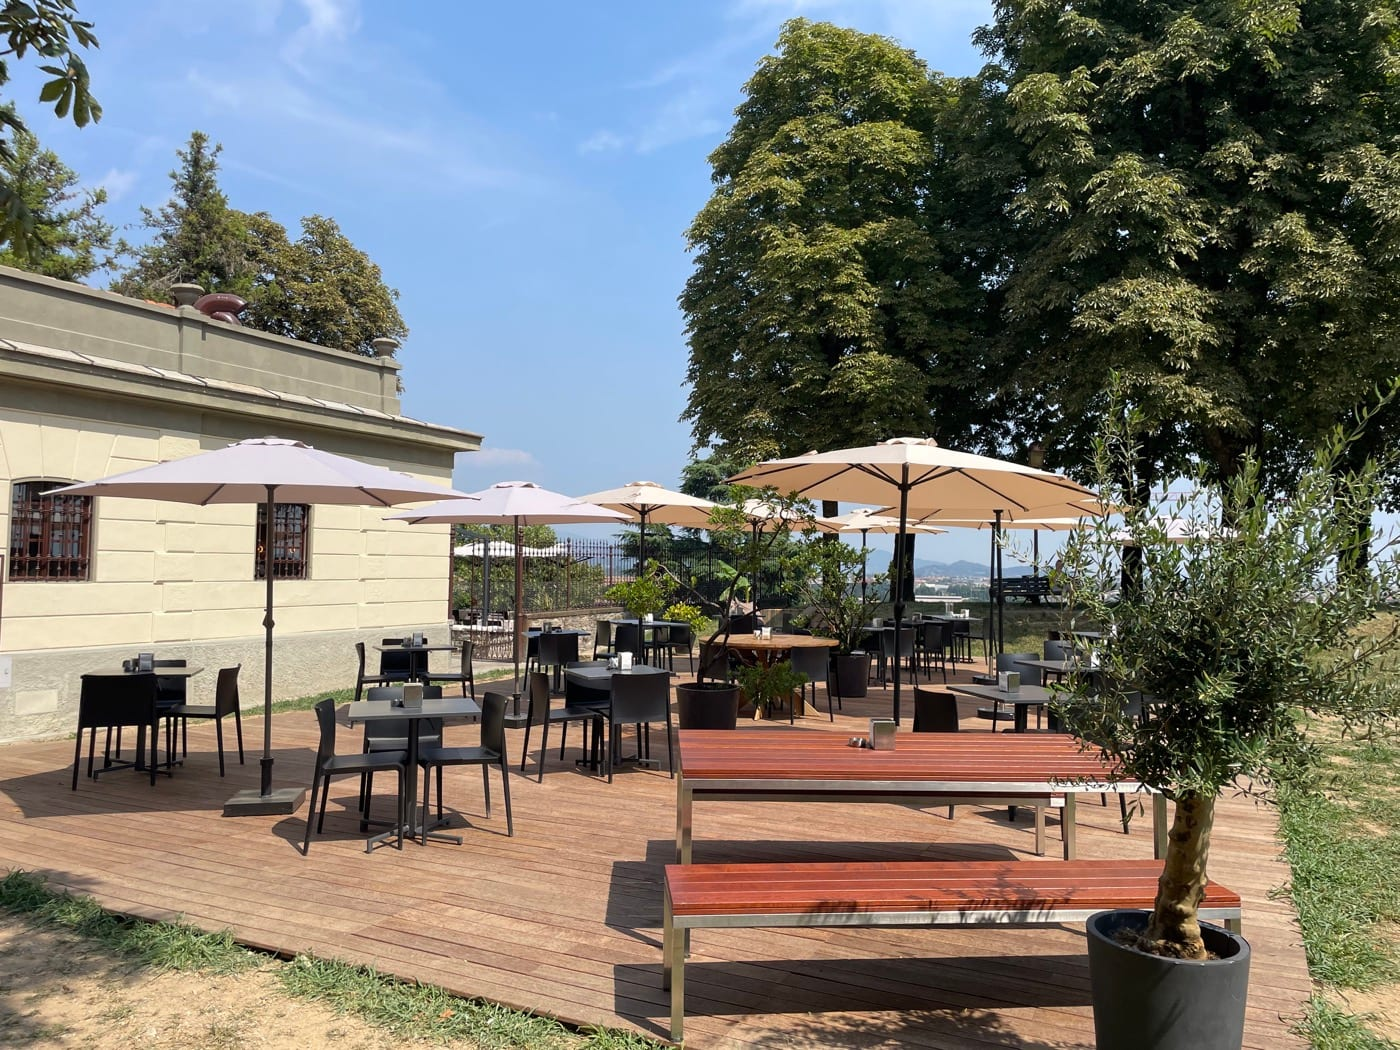
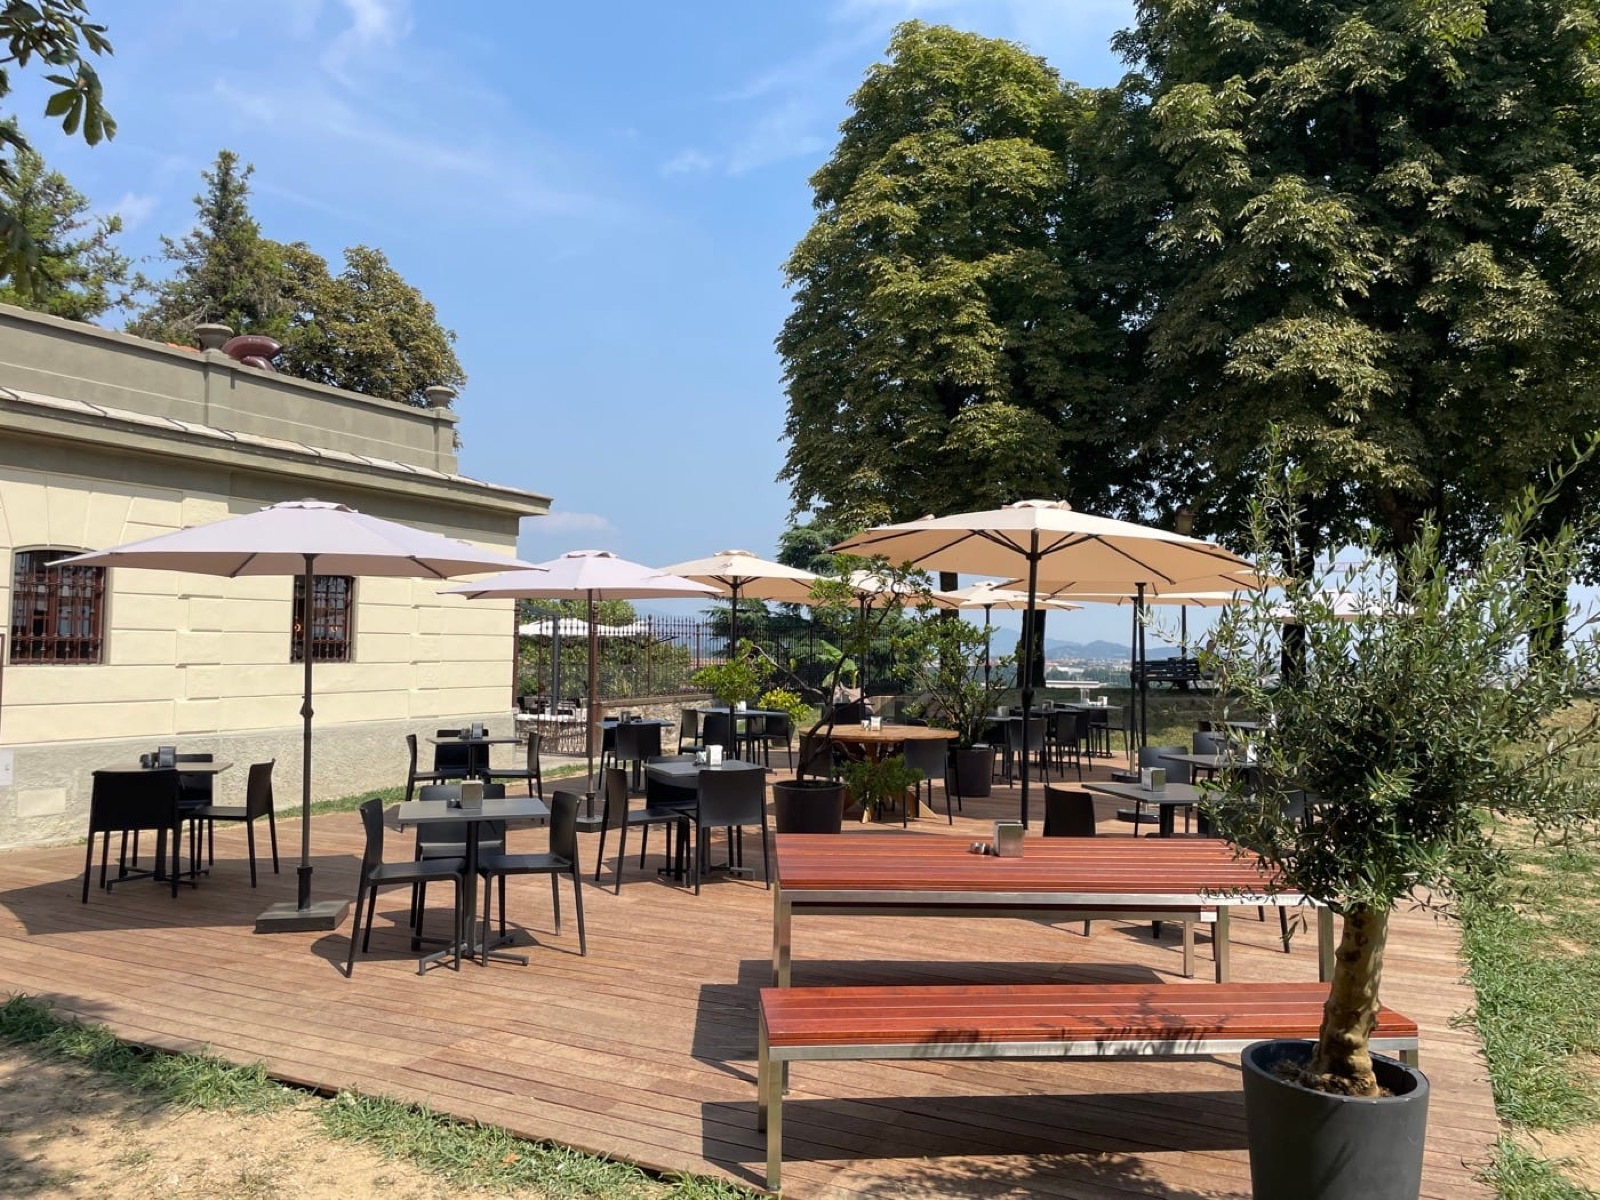
Keep converted group bookings in agenda

diff --git a/server.js b/server.js
@@ -225,6 +225,7 @@ function publicBookingRecord(item) {
   return {
     ...item,
     requestType: item.requestType || "standard",
+    occupiesSeats: bookingOccupiesSeats(item),
     specialType: item.specialType || "",
     specialStatus: item.specialStatus || "",
     specialTimeWindow: item.specialTimeWindow || "",
@@ -244,6 +245,7 @@ function publicSpecialRequest(item) {
     people: item.people,
     room: item.room || "",
     status: item.status,
+    occupiesSeats: bookingOccupiesSeats(item),
     notes: item.notes || "",
     customerNotes: item.customerNotes || "",
     specialType: item.specialType || "",
@@ -1497,7 +1499,7 @@ function zoneOccupancy(bookings, booking) {
   const period = mealPeriod(booking.time);
   const targetRoom = roomKey(booking.room);
   return bookings
-    .filter((item) => (item.requestType || "standard") !== "special")
+    .filter(bookingOccupiesSeats)
     .filter((item) => item.date === booking.date)
     .filter((item) => item.status !== "annullata")
     .filter((item) => roomKey(item.room) === targetRoom)
@@ -1507,11 +1509,19 @@ function zoneOccupancy(bookings, booking) {
 
 function publicSlotBookingCount(bookings, booking) {
   return bookings
-    .filter((item) => (item.requestType || "standard") !== "special")
+    .filter(bookingOccupiesSeats)
     .filter((item) => item.date === booking.date)
     .filter((item) => item.status !== "annullata")
     .filter((item) => item.time === booking.time)
     .length;
+}
+
+function bookingOccupiesSeats(booking) {
+  if ((booking.requestType || "standard") !== "special") return true;
+  if (booking.occupiesSeats === true) return true;
+
+  // Mantiene occupate anche le prenotazioni convertite prima dell'introduzione di questo flag.
+  return /convertita da prenotazione normale a richiesta gruppo\/evento/i.test(String(booking.internalNotes || ""));
 }
 
 function specialTimeWindowFromBooking(booking) {
@@ -3251,6 +3261,9 @@ async function handleApi(req, res) {
         room: item.room || "",
         tableNumber: item.tableNumber || "",
         status: item.status,
+        requestType: item.requestType || "standard",
+        specialType: item.specialType || "",
+        occupiesSeats: bookingOccupiesSeats(item),
         voucherCode: item.voucherCode || "",
         notes: item.notes || "",
         referredByEmployeeName: item.referredByEmployeeName || ""
@@ -3746,7 +3759,8 @@ async function handleApi(req, res) {
     const visible = bookings
       .filter((item) => !from || item.date >= from)
       .filter((item) => !to || item.date <= to)
-      .sort((a, b) => `${a.date} ${a.time}`.localeCompare(`${b.date} ${b.time}`));
+      .sort((a, b) => `${a.date} ${a.time}`.localeCompare(`${b.date} ${b.time}`))
+      .map(publicBookingRecord);
     sendJson(res, 200, { bookings: visible, zoneSettings });
     return;
   }
@@ -3867,12 +3881,13 @@ async function handleApi(req, res) {
     const converted = {
       ...previous,
       requestType: "special",
+      occupiesSeats: true,
       specialType: "gruppo",
       specialStatus: "nuova",
       specialTimeWindow: specialTimeWindowFromBooking(previous),
       assignedTo: previous.assignedTo || session.employeeName,
       internalNotes: appendBookingNote({ notes: previous.internalNotes || "" }, `Convertita da prenotazione normale a richiesta gruppo/evento da ${session.employeeName}.`),
-      status: "da verificare",
+      status: previous.status,
       updatedAt: now,
       updatedBy: session.employeeName
     };

diff --git a/public/app.js b/public/app.js
@@ -302,7 +302,7 @@ function renderRoomStats() {
   };
 
   for (const booking of bookings) {
-    if ((booking.requestType || "standard") === "special") continue;
+    if (!booking.occupiesSeats) continue;
     if (booking.status === "annullata") continue;
     const room = roomStatKey(booking.room);
     if (!stats[room]) continue;
@@ -383,7 +383,7 @@ function renderLimitWarning(room, values) {
 function renderBookings() {
   const term = searchInput.value.trim();
   const sourceBookings = (term ? mergeBookings(bookings, searchBookings) : bookings)
-    .filter((booking) => (booking.requestType || "standard") !== "special");
+    .filter((booking) => booking.occupiesSeats);
   const filtered = sourceBookings.filter((booking) => matchesSearch(booking, term) && matchesRoomFilter(booking) && matchesStatusFilter(booking));
   renderedBookings = filtered;
   const filterApiDate = toApiDate(filterDate.value);
@@ -405,6 +405,7 @@ function renderBookings() {
       <div class="booking-main">
         ${booking.date !== filterApiDate ? `<p class="other-date-alert">Attenzione: prenotazione del ${formatDate(booking.date)}</p>` : ""}
         <h3>${escapeHtml(booking.guestName)} · ${Number(booking.people)} persone</h3>
+        ${(booking.requestType || "standard") === "special" ? `<p class="booking-referral">Gruppo/evento · accordi in gestione</p>` : ""}
         <p class="booking-details">${formatDate(booking.date)} · ${seatLine(booking)} · ${contactLine(booking)}</p>
         ${referralLine(booking) ? `<p class="booking-referral">${referralLine(booking)}</p>` : ""}
         ${booking.voucherCode ? `<p class="booking-voucher"><strong>Voucher</strong> ${escapeHtml(booking.voucherCode)}</p>` : ""}
@@ -417,7 +418,7 @@ function renderBookings() {
         <button class="arrived" type="button" data-action="arrived" data-id="${booking.id}">${booking.status === "arrivati" ? "ANNULLA ARRIVO" : "ARRIVATI"}</button>
         ${["arrivati", "completata"].includes(booking.status) && booking.email && booking.feedbackConsentAt && !booking.feedbackRequestedAt ? `<button class="ghost" type="button" data-action="feedback" data-id="${booking.id}">Invia feedback</button>` : ""}
         ${booking.email ? `<button class="ghost" type="button" data-action="message" data-id="${booking.id}">Rispondi</button>` : ""}
-        <button class="ghost" type="button" data-action="convert-special" data-id="${booking.id}">Gruppo/evento</button>
+        ${(booking.requestType || "standard") !== "special" ? `<button class="ghost" type="button" data-action="convert-special" data-id="${booking.id}">Gruppo/evento</button>` : ""}
         <button class="ghost" type="button" data-action="edit" data-id="${booking.id}">Modifica</button>
         <button class="delete" type="button" data-action="delete" data-id="${booking.id}">Elimina</button>
       </div>
@@ -866,7 +867,7 @@ async function openWeeklyExport() {
 
   const payload = await api(`/api/bookings?from=${from}&to=${to}`);
   weeklyExportBookings = payload.bookings
-    .filter((booking) => (booking.requestType || "standard") !== "special")
+    .filter((booking) => booking.occupiesSeats)
     .filter((booking) => booking.status !== "annullata")
     .sort((a, b) => `${a.date} ${a.time}`.localeCompare(`${b.date} ${b.time}`));
   renderWeeklyExport();

diff --git a/public/prenota.html b/public/prenota.html
@@ -140,7 +140,7 @@
                   <small>Zona ristorante esterno</small>
                 </span>
               </span>
-              <img src="/zone-ristorante-esterno.jpg" alt="Tavoli della zona Ristorante Esterno" loading="lazy">
+              <img src="/zone-ristorante-esterno.jpg?v=20260829" alt="Tavoli della zona Ristorante Esterno" loading="lazy">
             </label>
             <label class="choice-card">
               <span class="choice-card-head">
@@ -150,7 +150,7 @@
                   <small>Zona bar</small>
                 </span>
               </span>
-              <img src="/zone-bar-aperitivi.jpg" alt="Tavoli della zona Bar aperitivi" loading="lazy">
+              <img src="/zone-bar-aperitivi.jpg?v=20260829" alt="Tavoli della zona Bar aperitivi" loading="lazy">
             </label>
           </fieldset>
 
@@ -162,7 +162,7 @@
                 <small>Vorrei il giardino, se disponibile. Solo per pranzo/cena e da confermare.</small>
               </span>
             </span>
-            <img src="/zone-giardino.jpg" alt="Tavoli della zona Giardino" loading="lazy">
+            <img src="/zone-giardino.jpg?v=20260829" alt="Tavoli della zona Giardino" loading="lazy">
           </label>
 
           <section class="public-time-section" data-standard-fields aria-labelledby="publicTimeSlotsTitle">

diff --git a/public/prenota-en.html b/public/prenota-en.html
@@ -140,7 +140,7 @@
                   <small>Outdoor restaurant area</small>
                 </span>
               </span>
-              <img src="/zone-ristorante-esterno.jpg" alt="Outdoor restaurant tables" loading="lazy">
+              <img src="/zone-ristorante-esterno.jpg?v=20260829" alt="Outdoor restaurant tables" loading="lazy">
             </label>
             <label class="choice-card">
               <span class="choice-card-head">
@@ -150,7 +150,7 @@
                   <small>Bar area</small>
                 </span>
               </span>
-              <img src="/zone-bar-aperitivi.jpg" alt="Bar aperitif area tables" loading="lazy">
+              <img src="/zone-bar-aperitivi.jpg?v=20260829" alt="Bar aperitif area tables" loading="lazy">
             </label>
           </fieldset>
 
@@ -162,7 +162,7 @@
                 <small>I would like the garden, if available. Lunch/dinner only and subject to confirmation.</small>
               </span>
             </span>
-            <img src="/zone-giardino.jpg" alt="Garden area tables" loading="lazy">
+            <img src="/zone-giardino.jpg?v=20260829" alt="Garden area tables" loading="lazy">
           </label>
 
           <section class="public-time-section" data-standard-fields aria-labelledby="publicTimeSlotsTitle">

diff --git a/public/dipendenti.html b/public/dipendenti.html
@@ -94,7 +94,7 @@
                   <small>Zona ristorante esterno</small>
                 </span>
               </span>
-              <img src="/zone-ristorante-esterno.jpg" alt="Tavoli della zona Ristorante Esterno" loading="lazy">
+              <img src="/zone-ristorante-esterno.jpg?v=20260829" alt="Tavoli della zona Ristorante Esterno" loading="lazy">
             </label>
             <label class="choice-card">
               <span class="choice-card-head">
@@ -104,7 +104,7 @@
                   <small>Zona bar</small>
                 </span>
               </span>
-              <img src="/zone-bar-aperitivi.jpg" alt="Tavoli della zona Bar aperitivi" loading="lazy">
+              <img src="/zone-bar-aperitivi.jpg?v=20260829" alt="Tavoli della zona Bar aperitivi" loading="lazy">
             </label>
           </fieldset>
 
@@ -116,7 +116,7 @@
                 <small>Se disponibile. Solo per pranzo/cena.</small>
               </span>
             </span>
-            <img src="/zone-giardino.jpg" alt="Tavoli della zona Giardino" loading="lazy">
+            <img src="/zone-giardino.jpg?v=20260829" alt="Tavoli della zona Giardino" loading="lazy">
           </label>
 
           <section class="public-time-section" aria-labelledby="employeeReferralSlotsTitle">

diff --git a/public/agenda.js b/public/agenda.js
@@ -125,6 +125,7 @@ function renderAgenda(bookings, date) {
       <div class="time">${escapeHtml(booking.time)}</div>
       <div class="booking-main">
         <h3>${escapeHtml(booking.guestName)} · ${Number(booking.people)} persone</h3>
+        ${(booking.requestType || "standard") === "special" ? `<p class="booking-referral">Gruppo/evento · posti bloccati</p>` : ""}
         <p>${seatLine(booking)}</p>
         ${booking.referredByEmployeeName ? `<p class="booking-referral">Portata da: ${escapeHtml(booking.referredByEmployeeName)}</p>` : ""}
         ${booking.voucherCode ? `<p class="booking-voucher"><strong>Voucher</strong> ${escapeHtml(booking.voucherCode)}</p>` : ""}
